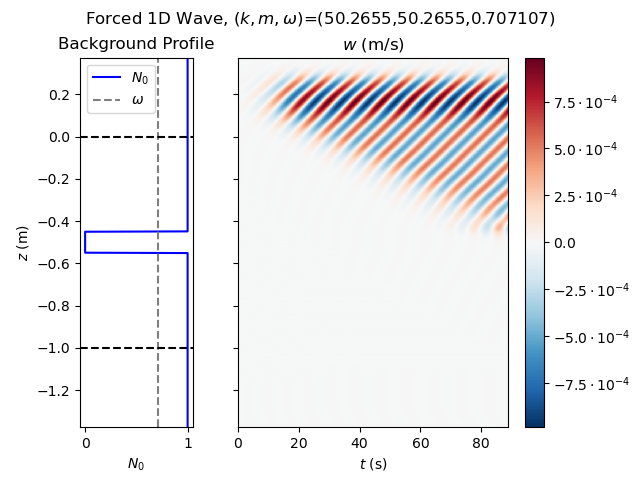
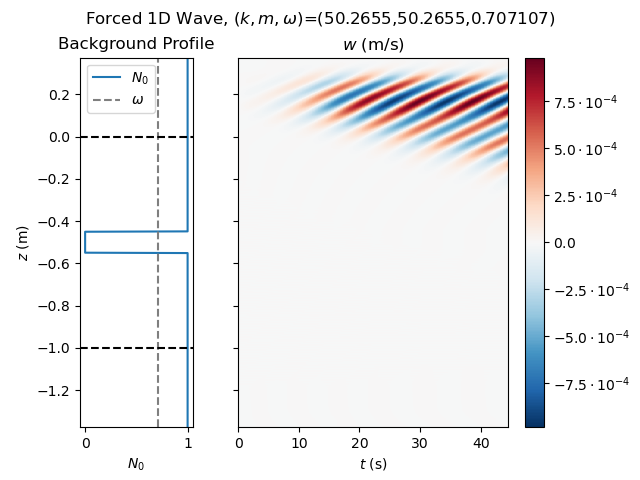
Moved many functions from plot_slices to helper_functions

diff --git a/plot_slices.py b/plot_slices.py
@@ -32,7 +32,7 @@ switchboard = args['SWITCHBOARD']
 h5_files = args['<files>']
 
 import switchboard as sbp
-import helper_functions as hfuncts
+import helper_functions as hf
 
 import pathlib
 output_path = pathlib.Path(args['--output']).absolute()
@@ -48,8 +48,7 @@ hori_label = r'$w$ (m/s)'
 vert_label = r'$z$ (m)'
 
 # Parameters
-BP = sbp.BP_array
-dpi = 100
+dpi = sbp.dpi
 tasks = ['w'] # usually 'b', 'p', 'u', or 'w'
 rows = 1
 cols = 2
@@ -59,36 +58,19 @@ round_to_decimal = 1
 title_size = 'medium'
 suptitle_size = 'large'
 T = sbp.T
+omega = sbp.omega
 
 # number of oscillation periods to skip at the start
 skip_nT = 0
 
+# Parameters for background profile
+n_steps = sbp.n_steps
+z0_dis  = sbp.z0_dis
+zf_dis  = sbp.zf_dis
+step_th = sbp.step_th
+
 ###############################################################################
 # Helper functions
-
-# Make a plot for one time slice
-def plot_task(ax, time_i, task_j, z_ax, dsetss):
-    # plot line of w vs. z
-    im = ax.plot(dsets[task_j][time_i][1], z_ax)
-    # Find max of absolute value for data to make symmetric around zero
-    xmax = max(abs(max(dsets[task_j][time_i][1].flatten())), abs(min(dsets[task_j][time_i][1].flatten())))
-    if xmax==0.0:
-        xmax = 0.001 # to avoid the weird jump with the first frame
-    # format range of plot extent
-    ax.set_xlim(-xmax, xmax)
-    ax.set_ylim(z_ax[0], z_ax[-1])
-    # format axis labels and ticks
-    format_labels_and_ticks(ax)
-    # add title
-    ax.set_title(tasks[task_j], fontsize=title_size)
-
-def format_labels_and_ticks(ax):
-    # add labels
-    ax.set_xlabel(hori_label)
-    # fix horizontal ticks
-    x0, xf = ax.get_xlim()
-    ax.xaxis.set_ticks([x0, 0.0, xf])
-    ax.xaxis.set_major_formatter(ticker.FuncFormatter(latex_exp))
 
 # Saves figure as a frame
 def save_fig_as_frame(fig, index, output, dpi):
@@ -96,37 +78,6 @@ def save_fig_as_frame(fig, index, output, dpi):
     savepath = output.joinpath(savename)
     fig.savefig(str(savepath), dpi=dpi)
     fig.clear()
-
-# Takes an exponential number and returns a string formatted nicely for latex
-#   Expects numbers in the format 7.0E+2
-def latex_exp(num, pos=None):
-    if (isinstance(num, int)):
-        # integer type, don't reformat
-        return num
-    else:
-        r_num = round(num, round_to_decimal)
-        # print('num',num)
-        # print('r_num',r_num)
-        float_str = "{:.1E}".format(num)
-        if "E" in float_str:
-            base, exponent = float_str.split("E")
-            exp = int(exponent)
-            b   = float(base)
-            str1 = '$'
-            if (exp == -1):
-                str1 = str1 + str(b/10.0)
-            elif (exp == 0):
-                str1 = str1 + str(base)
-            elif (exp == 1):
-                str1 = str1 + str(b*10.0)
-            elif (exp == 2):
-                str1 = str1 + str(b*100.0)
-            else:
-                str1 = str1 + str(base) + r'\cdot10^{' + str(exp) + '}'
-            str1 = str1 + '$'
-            return r"{0}".format(str1)
-        else:
-            return float_str
 
 ###############################################################################
 
@@ -158,7 +109,8 @@ for task in tasks:
 # Find length of time series
 t_len = len(dsets[0])
 
-
+# Build array for background profile
+BP_array = hf.BP_n_steps(n_steps, z_axis, z0_dis, zf_dis, step_th)
 
 # Iterate across time, plotting and saving a frame for each timestep
 for i in range(t_len):
@@ -169,9 +121,14 @@ for i in range(t_len):
     # Set ratios by passing dictionary as 'gridspec_kw', and share y axis
     fig, ax = plt.subplots(nrows=rows, ncols=cols, gridspec_kw=plot_ratios, sharey=True)
     # Plot background profile
-    hfuncts.plot_BP(ax[0], BP, z_axis)
+    hf.plot_BP(ax[0], BP_array, z_axis, omega, z0_dis, zf_dis)
     # Plot the task
-    plot_task(ax[1], i, 0, z_axis, dsets)
+    j = 0
+    hf.plot_task(ax[1], i, j, z_axis, dsets)
+    # format axis labels and ticks
+    hf.format_labels_and_ticks(ax[1], hori_label)
+    # Add title to task plot
+    ax[1].set_title(tasks[j], fontsize=title_size)
     # Add title for overall figure
     t = dsets[0][i][0]
     title_str = '{:}, $t/T=${:2.2f}'

diff --git a/helper_functions.py b/helper_functions.py
@@ -9,6 +9,7 @@ import matplotlib.pyplot as plt
 from matplotlib import ticker
 from dedalus.extras.plot_tools import quad_mesh, pad_limits
 
+###############################################################################
 # Takes an exponential number and returns a string formatted nicely for latex
 #   Expects numbers in the format 7.0E+2
 def latex_exp(num, pos=None):
@@ -37,6 +38,8 @@ def latex_exp(num, pos=None):
         else:
             return float_str
 
+###############################################################################
+
 # Background profile in N_0
 def BP_n_steps(n, z, z0_dis, zf_dis, th):
     """
@@ -62,7 +65,7 @@ def BP_n_steps(n, z, z0_dis, zf_dis, th):
     return BP_array
 
 def add_dis_bounds(ax, z0_dis=None, zf_dis=None):
-    line_color = my_clrs['k']
+    line_color = my_clrs['black']
     if z0_dis != None:
         ax.axhline(y=z0_dis, color=line_color, linestyle='--')
         ax.axhline(y=zf_dis, color=line_color, linestyle='--')
@@ -99,6 +102,8 @@ def plot_v_profiles(BP_array, bf_array, sp_array, z, omega=None, z0_dis=None, zf
     #
     plt.savefig('f_1D_windows.png')
 
+###############################################################################
+
 def plot_z_vs_t(z, t_array, w_array, BP_array, k, m, omega, z0_dis=None, zf_dis=None, c_map='RdBu_r'):
     # This dictionary makes each subplot have the desired ratios
     # The length of heights will be nrows and likewise len(widths)=ncols
@@ -127,23 +132,45 @@ def plot_z_vs_t(z, t_array, w_array, BP_array, k, m, omega, z0_dis=None, zf_dis=
     plt.savefig('f_1D_wave.png')
 
 ###############################################################################
+
+# Make a plot for one time slice
+def plot_task(ax, time_i, task_j, z_ax, dsets):
+    # plot line of w vs. z
+    im = ax.plot(dsets[task_j][time_i][1], z_ax, color=my_clrs['v_w'])
+    # Find max of absolute value for data to make symmetric around zero
+    xmax = max(abs(max(dsets[task_j][time_i][1].flatten())), abs(min(dsets[task_j][time_i][1].flatten())))
+    if xmax==0.0:
+        xmax = 0.001 # to avoid the weird jump with the first frame
+    # format range of plot extent
+    ax.set_xlim(-xmax, xmax)
+    ax.set_ylim(z_ax[0], z_ax[-1])
+
+def format_labels_and_ticks(ax, hori_label):
+    # add labels
+    ax.set_xlabel(hori_label)
+    # fix horizontal ticks
+    x0, xf = ax.get_xlim()
+    ax.xaxis.set_ticks([x0, 0.0, xf])
+    ax.xaxis.set_major_formatter(ticker.FuncFormatter(latex_exp))
+
+###############################################################################
 # Plotting colors from style guide
 
 my_clrs       = {'diff'  : (0, 0.5, 0),         # g
                  'visc': '#2ca02c',             # tab:green
-                 'N_0': (0, 0, 1),              # b
-                 'buoy': '#1f77b4',             # tab:blue
+                 'buoy': (0, 0, 1),             # b
+                 'N_0': '#1f77b4',              # tab:blue
+                 'v_w': (1, 0, 0),              # r
+                 'v_u': '#e377c2',              # tab:pink
                  'advec': '#d62728',            # tab:red
-                 'press': '#9467bd',            # tab:purple
+                 'p': '#ff7f0e',                # tab:orange
                  'bf': '#17becf',               # tab:cyan
-                 'sp': '#ff7f0e',               # tab:orange
+                 'sp': '#bcbd22',               # tab:olive
                  'tab:brown': '#8c564b',
-                 'tab:pink': '#e377c2',
                  'tab:gray': '#7f7f7f',
-                 'tab:olive': '#bcbd22',
-                 'r': (1, 0, 0),
+                 'tab:purple': '#9467bd',
                  'c': (0, 0.75, 0.75),
                  'm': (0.75, 0, 0.75),
                  'y': (0.75, 0.75, 0),
-                 'k': (0, 0, 0),
-                 'w': (1, 1, 1)}
+                 'black': (0, 0, 0),
+                 'white': (1, 1, 1)}

diff --git a/switchboard.py b/switchboard.py
@@ -14,7 +14,7 @@ from dedalus import public as de
 # Main parameters, the ones I'll change a lot. Many more below
 
 # Run parameters
-stop_n_periods = 10             # [] oscillation periods
+stop_n_periods = 5             # [] oscillation periods
 
 # Displayed domain parameters
 nz     = 1024                   # [] number of grid points in the z direction
